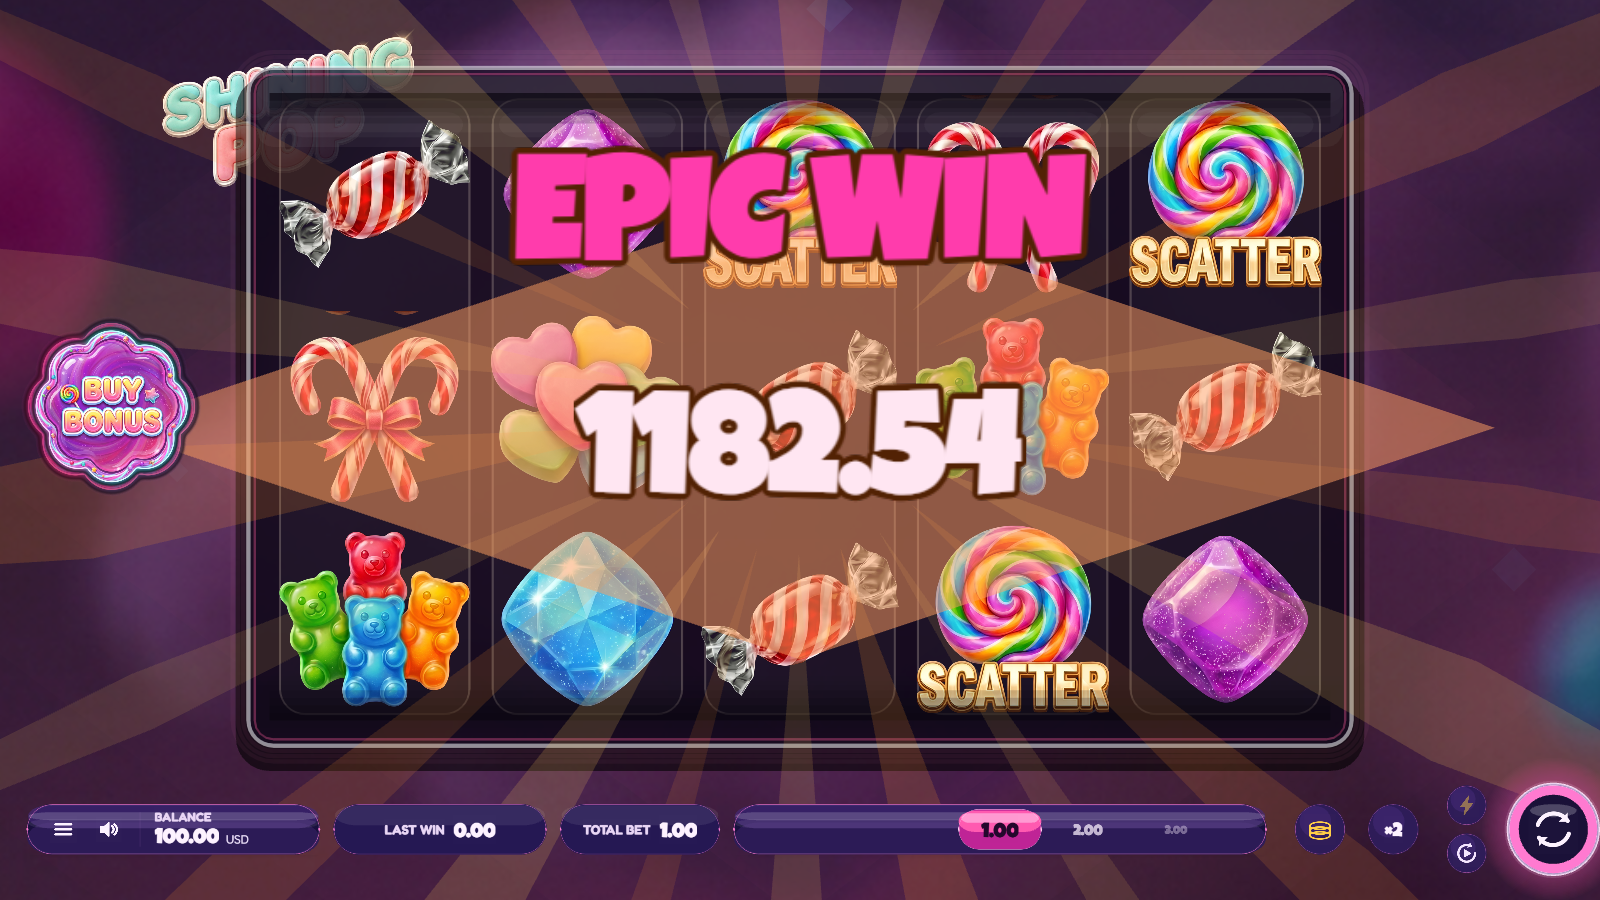
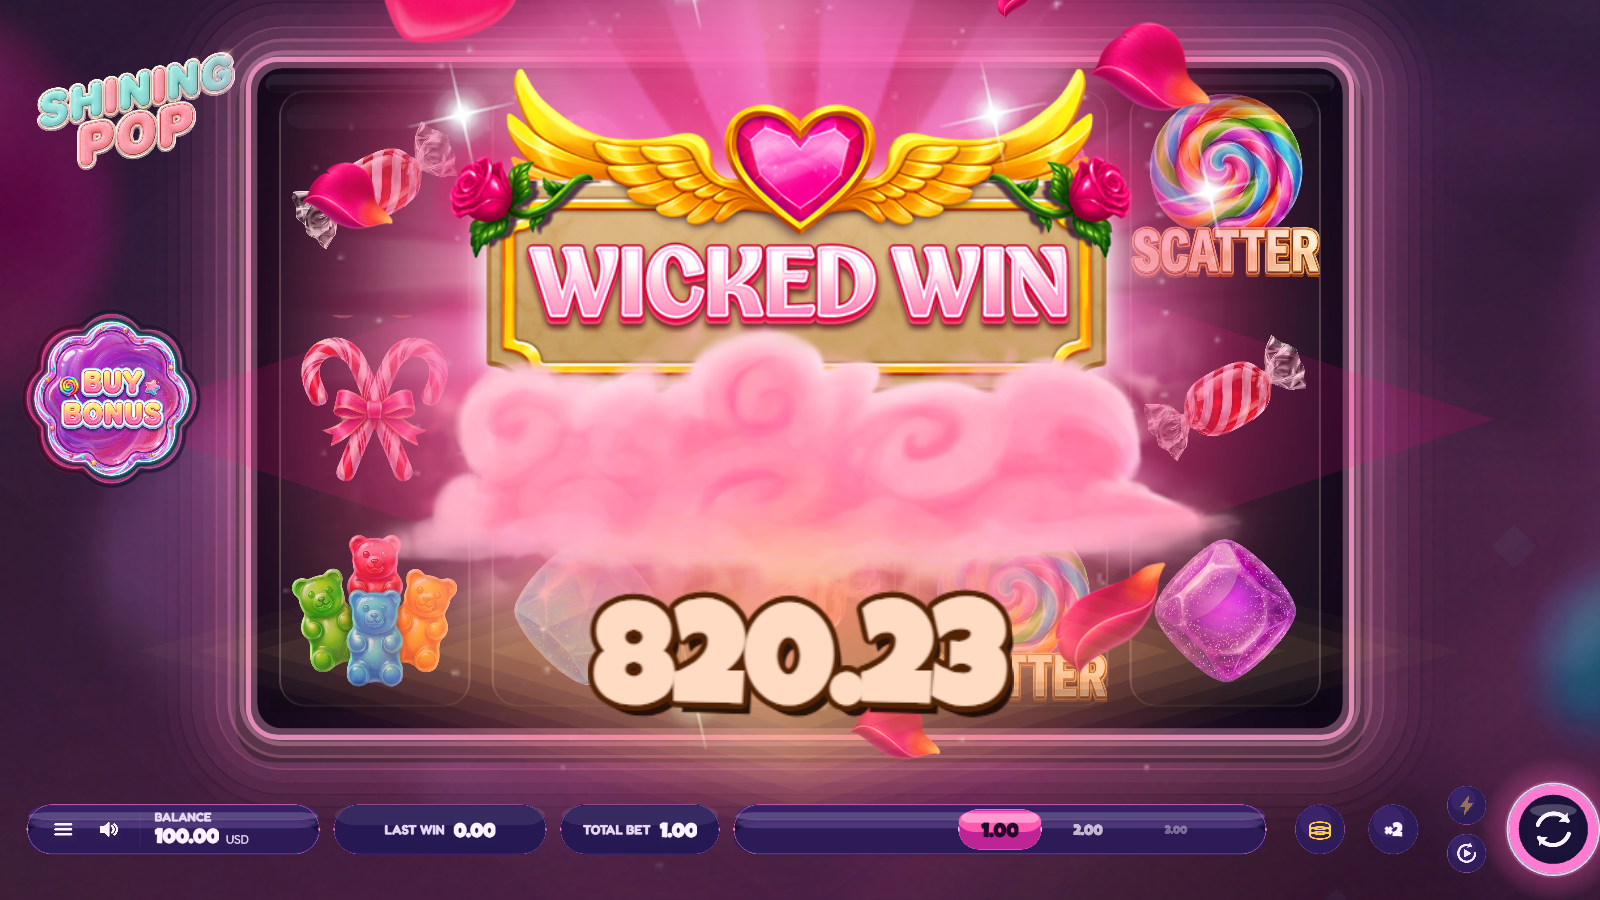
fix(shining-pop-v2): crisp reel land, on-symbol win glow, refreshed README shots
Reel land bounce elasticOut -> backOut (single clean overshoot, no springy
wobble); win under-glow tightened 1.9x -> 1.4x so the shine reads on the
symbol, not as a background wash. README cocos screenshots re-shot from the
current build (they showed the pre-Spine basic ceremony + cropped logo):
now the Spine win-callout, clean unoccluded logo, portal frame, on-symbol
win presentation, and portrait deck — captions updated to match.

diff --git a/games/shining-pop-v2/build/web-mobile/assets/main/index.js b/games/shining-pop-v2/build/web-mobile/assets/main/index.js
@@ -54,7 +54,7 @@ System.register("chunks:///_virtual/symbol-view.ts",["./rollupPluginModLoBabelHe
 
 System.register("chunks:///_virtual/types.ts",["cc"],(function(){var e;return{setters:[function(t){e=t.cclegacy}],execute:function(){e._RF.push({},"b74achK4KZI0pcAepzAMIy5","types",void 0),e._RF.pop()}}}));
 
-System.register("chunks:///_virtual/view-config.ts",["./rollupPluginModLoBabelHelpers.js","cc"],(function(e){var a,l;return{setters:[function(e){a=e.createForOfIteratorHelperLoose},function(e){l=e.cclegacy}],execute:function(){e("resolveBigWinTier",(function(e){for(var l,s=a(r.ceremony.tiers);!(l=s()).done;){var i=l.value;if(e>=i.minMultiple)return i}return null})),l._RF.push({},"046ccpvXsxG/JE2oOJ6lx8n","view-config",void 0);var r=e("VIEW_CONFIG",{vfx:{materialsEnabled:!0},layout:{cell:96,symbolFill:.99,gap:5,reelCenterY:90,designWidth:760,designHeight:760,spinBuffer:12,contentTopPx:372,landscapeTopPadPx:28,boardBottomGapPx:22,bgCoverOverscan:1.15,windowFeatherPx:18,portraitWidthFill:.99,landscapeWidthFill:1,fab:{sizePx:100,gapPx:14,minClearancePx:14,edgePadPx:12,landscapeDockSign:-1,portraitScreenX:.16,portraitScreenY:.2,portraitWidthPx:140,portraitBandFrac:.6,landscapeScale:.78},logo:{topY:322,landscapeScale:.4,landscapeScreenX:.085,landscapeScreenY:.88,bonusScreenX:.12,bonusScreenY:.5}},spin:{minSpinMs:440,reelStopStaggerMs:88,accelFraction:.1,decelFraction:.34,landSquash:.9,windupMs:120,windupAmpFrac:.85,windupSquash:1,blur:{enabled:!1,triggerSpd:.12,span:.25,strengthYFrac:.03,strengthXFrac:.012,rampInDecay:.5,rampOutDecay:.18},quickStop:{staggerMs:8,minMs:55,maxMs:100},preSpinMaskMs:50,preSpinFadeToAlpha:255,portal:{enabled:!1,entryMs:180,exitMs:220,warpAmp:6,fringeColor:"#ff5ab0"},bounce:{overtravelFrac:.1,bounceMs:260,easing:"elasticOut",weight:1,speed:1,elasticity:1}},win:{symbolPulseScale:1.18,symbolPulseMs:420,winBounceLoop:{enabled:!0,jelly:.085,ms:520},loserDimOpacity:115,lineCycleSeconds:.85,showLines:!1,fireEmbers:{perCell:12,riseSpeed:180,lifeMs:820,spreadPx:46},fireFlames:{enabled:!1},beams:{enabled:!0,heightPx:52,maxSegments:16,fadeInMs:180,holdOpacity:225},burst:{enabled:!0,intensity:1.15,scale:1.9},symbolFx:{enabled:!0,intensity:1.2,rimWidth:.035,sweepSpeed:.55,envInMs:220,envHoldOpacity:220,scale:1.06},glow:{intensity:1.4,scrollSpeed:1.6,widthPx:22,alpha:1,fallbackEnabled:!0},svarka:{coreDiscs:4,corePulseScale:1.35,corePulseMs:380,sparkPerStep:3,sparkGravity:1400,sparkLifeMs:520,sparkColor:"#7fe7ff",shakeAmp:4,shakeMs:120,additiveMaterial:!0}},counter:{baseMs:600,logScaleMs:350,maxMs:3e3,easing:"easeOutExpo",antHoldMs:{epic:320,big:240,base:150},landingPopMs:380,landingPopScale:.3,landingTintMs:420,heartbeat:{popScale:1.18,decayPerSec:9,milestoneCount:6}},ceremony:{showMinMultiple:10,holdMs:2e3,microSilenceMs:200,tiers:[{name:"EPIC",minMultiple:100,shakeAmp:20,color:"#ff3cac",headerKey:"header_mega_win",coinParticles:1,boardDimAlpha:.72,panelLight:1,textPopScale:1.28},{name:"SUPER",minMultiple:50,shakeAmp:15,color:"#ff5ab0",headerKey:"header_mega_win",coinParticles:1,boardDimAlpha:.5,panelLight:.72,textPopScale:1.22},{name:"MEGA",minMultiple:30,shakeAmp:11,color:"#ffb000",headerKey:"header_mega_win",coinParticles:0,boardDimAlpha:.28,panelLight:.44,textPopScale:1.18},{name:"BIG",minMultiple:10,shakeAmp:7,color:"#ffe14d",headerKey:"header_win",coinParticles:0,boardDimAlpha:.12,panelLight:.18,textPopScale:1.14}]},anticipation:{minEarlyWilds:2,minEarlyScatters:2,extraSeconds:.6,showAura:!1,boltCount:4,reStrikeMs:110,auraColor:"#ff2f93"},particles:{baseCount:14,perMultiple:1.5,maxCount:56,poolCap:64,prealloc:48,coin:{count:30,launchSpeed:900,gravity:2200,spreadDeg:60}},turbo:{off:1,turbo:.4,max:.16},land:{armAt:.965,symDurMs:{off:250,turbo:165,max:130},symStagMs:{off:40,turbo:26,max:18},landDip:{off:.052,turbo:.038,max:.03},landSq:{off:.055,turbo:.042,max:.034}},reveal:{normalMs:{off:1300,turbo:720,max:480,reduced:700},fsMs:{off:1800,turbo:1300,max:900,reduced:900},buyMs:{off:1500,turbo:1100,max:700,reduced:600},cellCascadeMs:300,cellStaggerMs:55,fruitPopMs:240,scatterBurstStaggerMs:120},grade:{outMs:280,inMs:320,outAlpha:.75},banner:{fsHoldMs:1100,retriggerHoldMs:850,reducedFsHoldMs:500},autoplay:{off:720,turbo:280,max:140},bonus:{speedMul:.5,stepPauseMs:200,deadPauseMs:170,winPauseMs:560,bigStepMultiple:8,mergeWipe:{ms:420,dir:1,fallbackEnabled:!0}},symbols:{mixSeconds:.15,idleProfiles:{base:{amp:1,freq:1.9}}},decor:{flankCrystal:{enabled:!1,sizePx:70,marginPx:36,pulseSpeed:1.6,displaceAmp:3,portraitVisible:!1,fallbackEnabled:!0}},intro:{fade:{ms:0,holdMs:0,color:"#0a0610",startAlpha:0}},buy:{ambient:{glintSweepMs:520,glintGapMs:2800,plasmaSpeed:.6,plasmaAlpha:.45,fallbackEnabled:!0}},info:{panelW:540,panelH:620,titleSize:30,headerSize:22,bodySize:18,captionSize:14,lineGap:6,leftMargin:36,colGap:24,maxBodyHeight:460},menu:{panelW:460,titleSize:28,labelSize:22,captionSize:13,rowH:64,rowGap:10,gemSize:14,accentAlpha:.85},modal:{scrimAlpha:.78,scrimFadeMs:160,dismissOnScrim:!0,closeX:{size:44,inset:30,strokeWidth:4,hitPadding:6}},bar:{web:{bgBaseAlpha:0,bgGroundAlpha:0,bgGroundFrac:.6,gambleGapPx:110,clusterCoinsX:0,carousel:{cellW:132,pillCenterX:388,fadeScale:[1,.74,.56,.5],fadeOpacity:[255,185,95,0]},buttonBevel:{shadowAlpha:.45,sheenAlpha:.35}},mobile:{bandAlpha:.9,fadeAboveBandPx:24},buttons:{hoverScale:1.04,pressScale:.94,hoverMs:140,pressMs:80,releaseMs:180,ease:[.16,1,.3,1],enableHover:!0},cursor:{useCustom:!1},buyControl:{x:384,y:322,size:62},capsule:{fill:"#140d1c",radius:14,edgeWidth:1.5},footer:{y:-42,height:28,dividerY:-28},bandTop:60}});l._RF.pop()}}}));
+System.register("chunks:///_virtual/view-config.ts",["./rollupPluginModLoBabelHelpers.js","cc"],(function(e){var a,l;return{setters:[function(e){a=e.createForOfIteratorHelperLoose},function(e){l=e.cclegacy}],execute:function(){e("resolveBigWinTier",(function(e){for(var l,s=a(r.ceremony.tiers);!(l=s()).done;){var i=l.value;if(e>=i.minMultiple)return i}return null})),l._RF.push({},"046ccpvXsxG/JE2oOJ6lx8n","view-config",void 0);var r=e("VIEW_CONFIG",{vfx:{materialsEnabled:!0},layout:{cell:96,symbolFill:.99,gap:5,reelCenterY:90,designWidth:760,designHeight:760,spinBuffer:12,contentTopPx:372,landscapeTopPadPx:28,boardBottomGapPx:22,bgCoverOverscan:1.15,windowFeatherPx:18,portraitWidthFill:.99,landscapeWidthFill:1,fab:{sizePx:100,gapPx:14,minClearancePx:14,edgePadPx:12,landscapeDockSign:-1,portraitScreenX:.16,portraitScreenY:.2,portraitWidthPx:140,portraitBandFrac:.6,landscapeScale:.78},logo:{topY:322,landscapeScale:.4,landscapeScreenX:.085,landscapeScreenY:.88,bonusScreenX:.12,bonusScreenY:.5}},spin:{minSpinMs:440,reelStopStaggerMs:88,accelFraction:.1,decelFraction:.34,landSquash:.9,windupMs:120,windupAmpFrac:.85,windupSquash:1,blur:{enabled:!1,triggerSpd:.12,span:.25,strengthYFrac:.03,strengthXFrac:.012,rampInDecay:.5,rampOutDecay:.18},quickStop:{staggerMs:8,minMs:55,maxMs:100},preSpinMaskMs:50,preSpinFadeToAlpha:255,portal:{enabled:!1,entryMs:180,exitMs:220,warpAmp:6,fringeColor:"#ff5ab0"},bounce:{overtravelFrac:.08,bounceMs:190,easing:"backOut",weight:1,speed:1,elasticity:1}},win:{symbolPulseScale:1.18,symbolPulseMs:420,winBounceLoop:{enabled:!0,jelly:.085,ms:520},loserDimOpacity:115,lineCycleSeconds:.85,showLines:!1,fireEmbers:{perCell:12,riseSpeed:180,lifeMs:820,spreadPx:46},fireFlames:{enabled:!1},beams:{enabled:!0,heightPx:52,maxSegments:16,fadeInMs:180,holdOpacity:225},burst:{enabled:!0,intensity:1.05,scale:1.4},symbolFx:{enabled:!0,intensity:1.2,rimWidth:.035,sweepSpeed:.55,envInMs:220,envHoldOpacity:220,scale:1.06},glow:{intensity:1.4,scrollSpeed:1.6,widthPx:22,alpha:1,fallbackEnabled:!0},svarka:{coreDiscs:4,corePulseScale:1.35,corePulseMs:380,sparkPerStep:3,sparkGravity:1400,sparkLifeMs:520,sparkColor:"#7fe7ff",shakeAmp:4,shakeMs:120,additiveMaterial:!0}},counter:{baseMs:600,logScaleMs:350,maxMs:3e3,easing:"easeOutExpo",antHoldMs:{epic:320,big:240,base:150},landingPopMs:380,landingPopScale:.3,landingTintMs:420,heartbeat:{popScale:1.18,decayPerSec:9,milestoneCount:6}},ceremony:{showMinMultiple:10,holdMs:2e3,microSilenceMs:200,tiers:[{name:"EPIC",minMultiple:100,shakeAmp:20,color:"#ff3cac",headerKey:"header_mega_win",coinParticles:1,boardDimAlpha:.72,panelLight:1,textPopScale:1.28},{name:"SUPER",minMultiple:50,shakeAmp:15,color:"#ff5ab0",headerKey:"header_mega_win",coinParticles:1,boardDimAlpha:.5,panelLight:.72,textPopScale:1.22},{name:"MEGA",minMultiple:30,shakeAmp:11,color:"#ffb000",headerKey:"header_mega_win",coinParticles:0,boardDimAlpha:.28,panelLight:.44,textPopScale:1.18},{name:"BIG",minMultiple:10,shakeAmp:7,color:"#ffe14d",headerKey:"header_win",coinParticles:0,boardDimAlpha:.12,panelLight:.18,textPopScale:1.14}]},anticipation:{minEarlyWilds:2,minEarlyScatters:2,extraSeconds:.6,showAura:!1,boltCount:4,reStrikeMs:110,auraColor:"#ff2f93"},particles:{baseCount:14,perMultiple:1.5,maxCount:56,poolCap:64,prealloc:48,coin:{count:30,launchSpeed:900,gravity:2200,spreadDeg:60}},turbo:{off:1,turbo:.4,max:.16},land:{armAt:.965,symDurMs:{off:250,turbo:165,max:130},symStagMs:{off:40,turbo:26,max:18},landDip:{off:.052,turbo:.038,max:.03},landSq:{off:.055,turbo:.042,max:.034}},reveal:{normalMs:{off:1300,turbo:720,max:480,reduced:700},fsMs:{off:1800,turbo:1300,max:900,reduced:900},buyMs:{off:1500,turbo:1100,max:700,reduced:600},cellCascadeMs:300,cellStaggerMs:55,fruitPopMs:240,scatterBurstStaggerMs:120},grade:{outMs:280,inMs:320,outAlpha:.75},banner:{fsHoldMs:1100,retriggerHoldMs:850,reducedFsHoldMs:500},autoplay:{off:720,turbo:280,max:140},bonus:{speedMul:.5,stepPauseMs:200,deadPauseMs:170,winPauseMs:560,bigStepMultiple:8,mergeWipe:{ms:420,dir:1,fallbackEnabled:!0}},symbols:{mixSeconds:.15,idleProfiles:{base:{amp:1,freq:1.9}}},decor:{flankCrystal:{enabled:!1,sizePx:70,marginPx:36,pulseSpeed:1.6,displaceAmp:3,portraitVisible:!1,fallbackEnabled:!0}},intro:{fade:{ms:0,holdMs:0,color:"#0a0610",startAlpha:0}},buy:{ambient:{glintSweepMs:520,glintGapMs:2800,plasmaSpeed:.6,plasmaAlpha:.45,fallbackEnabled:!0}},info:{panelW:540,panelH:620,titleSize:30,headerSize:22,bodySize:18,captionSize:14,lineGap:6,leftMargin:36,colGap:24,maxBodyHeight:460},menu:{panelW:460,titleSize:28,labelSize:22,captionSize:13,rowH:64,rowGap:10,gemSize:14,accentAlpha:.85},modal:{scrimAlpha:.78,scrimFadeMs:160,dismissOnScrim:!0,closeX:{size:44,inset:30,strokeWidth:4,hitPadding:6}},bar:{web:{bgBaseAlpha:0,bgGroundAlpha:0,bgGroundFrac:.6,gambleGapPx:110,clusterCoinsX:0,carousel:{cellW:132,pillCenterX:388,fadeScale:[1,.74,.56,.5],fadeOpacity:[255,185,95,0]},buttonBevel:{shadowAlpha:.45,sheenAlpha:.35}},mobile:{bandAlpha:.9,fadeAboveBandPx:24},buttons:{hoverScale:1.04,pressScale:.94,hoverMs:140,pressMs:80,releaseMs:180,ease:[.16,1,.3,1],enableHover:!0},cursor:{useCustom:!1},buyControl:{x:384,y:322,size:62},capsule:{fill:"#140d1c",radius:14,edgeWidth:1.5},footer:{y:-42,height:28,dividerY:-28},bandTop:60}});l._RF.pop()}}}));
 
 System.register("chunks:///_virtual/win-cells.ts",["./rollupPluginModLoBabelHelpers.js","cc","./game-config.ts"],(function(e){var n,r,o;return{setters:[function(e){n=e.createForOfIteratorHelperLoose},function(e){r=e.cclegacy},function(e){o=e.PAYLINES}],execute:function(){e("winningCellsByReel",(function(e,r){for(var t,c=Array.from({length:r},(function(){return[]})),l=n(e.lineWins);!(t=l()).done;)for(var i=t.value,u=o[i.lineIndex],s=0;s<i.count;s++){var a=u[s];c[s].includes(a)||c[s].push(a)}return c})),r._RF.push({},"242c1TKMUdBe5Y0ols1k31h","win-cells",void 0),r._RF.pop()}}}));
 

diff --git a/games/shining-pop-v2/assets/scripts/view/view-config.ts b/games/shining-pop-v2/assets/scripts/view/view-config.ts
@@ -175,9 +175,9 @@ export const VIEW_CONFIG = {
      *  on the SECOND segment's .call so the squash coincides with rest. Designers
      *  tune weight/elasticity/speed live; reducedMotion disables the bounce. */
     bounce: {
-      overtravelFrac: 0.1,
-      bounceMs: 260,
-      easing: 'elasticOut',
+      overtravelFrac: 0.08,
+      bounceMs: 190,
+      easing: 'backOut',
       weight: 1,
       speed: 1,
       elasticity: 1,
@@ -230,7 +230,7 @@ export const VIEW_CONFIG = {
      *  behind winners (it BANDED into visible concentric circles — rejected).
      *  Shader = continuous falloff + rotating god-rays + candle flicker. The
      *  Graphics glow remains the fallback when the material is unavailable. */
-    burst: { enabled: true, intensity: 1.15, scale: 1.9 },
+    burst: { enabled: true, intensity: 1.05, scale: 1.4 },
 
     // ── CINEMA WAVE: shader winning-symbol highlight (symbol-win.effect) ─────
     /** Award-tier ON-symbol highlight: an additive overlay that reads the

diff --git a/README.md b/README.md
@@ -51,9 +51,9 @@ _Cocos Creator 3.8.8 — candy reskin, authored icon set, full-bleed reels_
 
 _Win presentation: gold payline core + flowing plasma beam · per-symbol shader fire · jelly squash-and-stretch · win-focus dim_
 
-<img width="860" alt="Cocos Creator — EPIC WIN ceremony" src="docs/media/cocos-ceremony.png" />
+<img width="860" alt="Cocos Creator — Spine win-callout ceremony" src="docs/media/cocos-ceremony.png" />
 
-_Tiered ceremony: outlined headline, rolling count-up, rotating god-rays, warm gold light_
+_Spine 4.2 win-callout: winged golden-heart banner, cotton-candy cloud, floating petals, kinetic gold count-up — tier-scaled, with a procedural fallback_
 
 <table>
   <tr>
@@ -125,8 +125,9 @@ sequenceDiagram
   plasma. Every shader honors a master switch, reduced-motion, and a vector
   fallback.
 - **Modern win language** — winners jelly-wobble while non-winners dim back;
-  a crisp 3 px gold payline core rides a soft plasma bloom; tiered ceremonies
-  escalate continuously with the win multiple up to an EPIC max-win detonation.
+  a crisp 3 px gold payline core rides a soft plasma bloom; a tier-scaled Spine
+  win-callout (winged-heart banner + cotton-candy cloud) crowns the big wins,
+  with a procedural light-rig fallback if the skeleton is unavailable.
 - **Full control surface** — authored icon set across both bars, swipeable bet
   carousel, ×2 gamble, quick-bet stack, turbo, autoplay with stop conditions,
   4-state buttons with hover/press glow, animated panel transitions, and a
